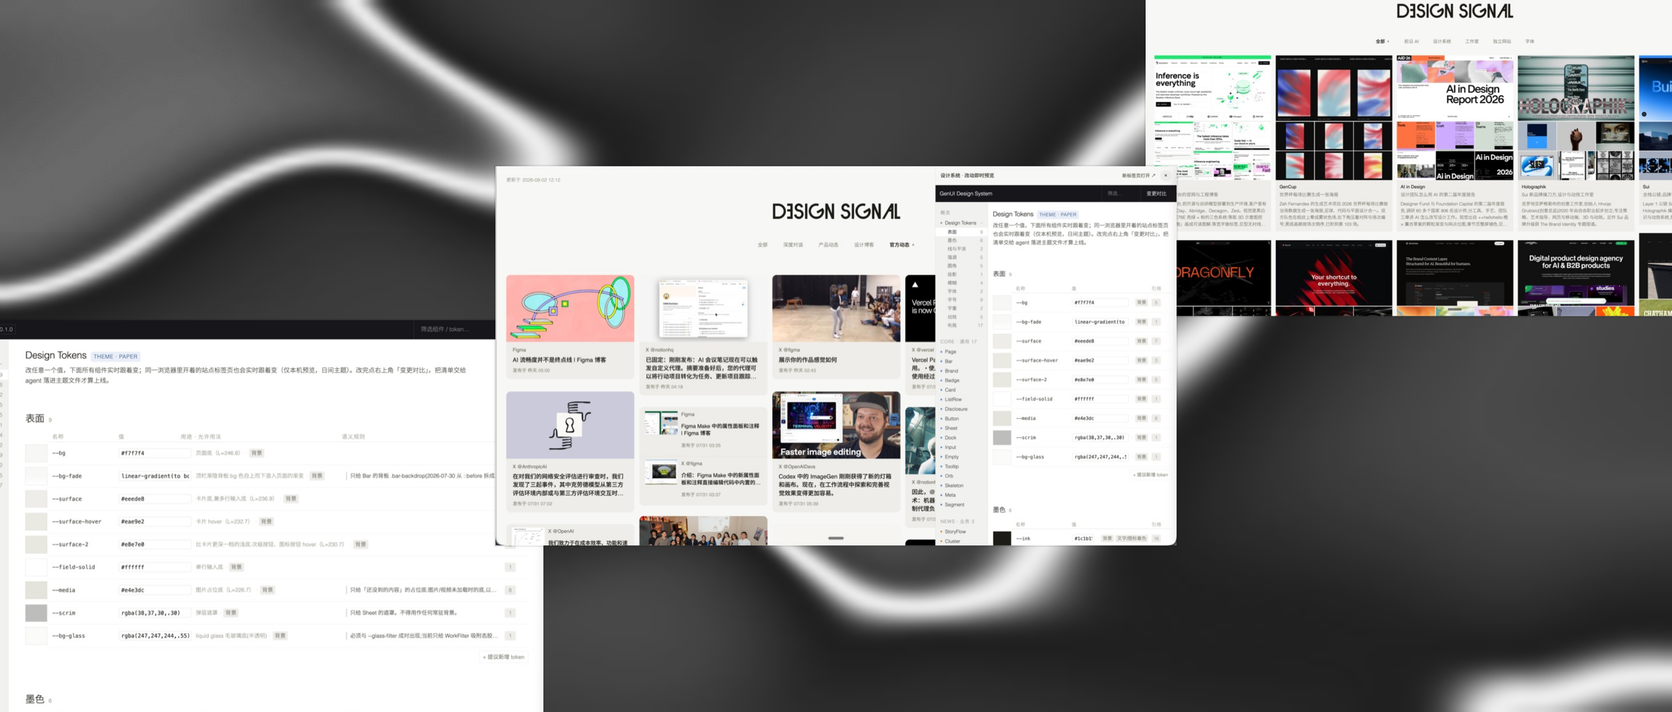
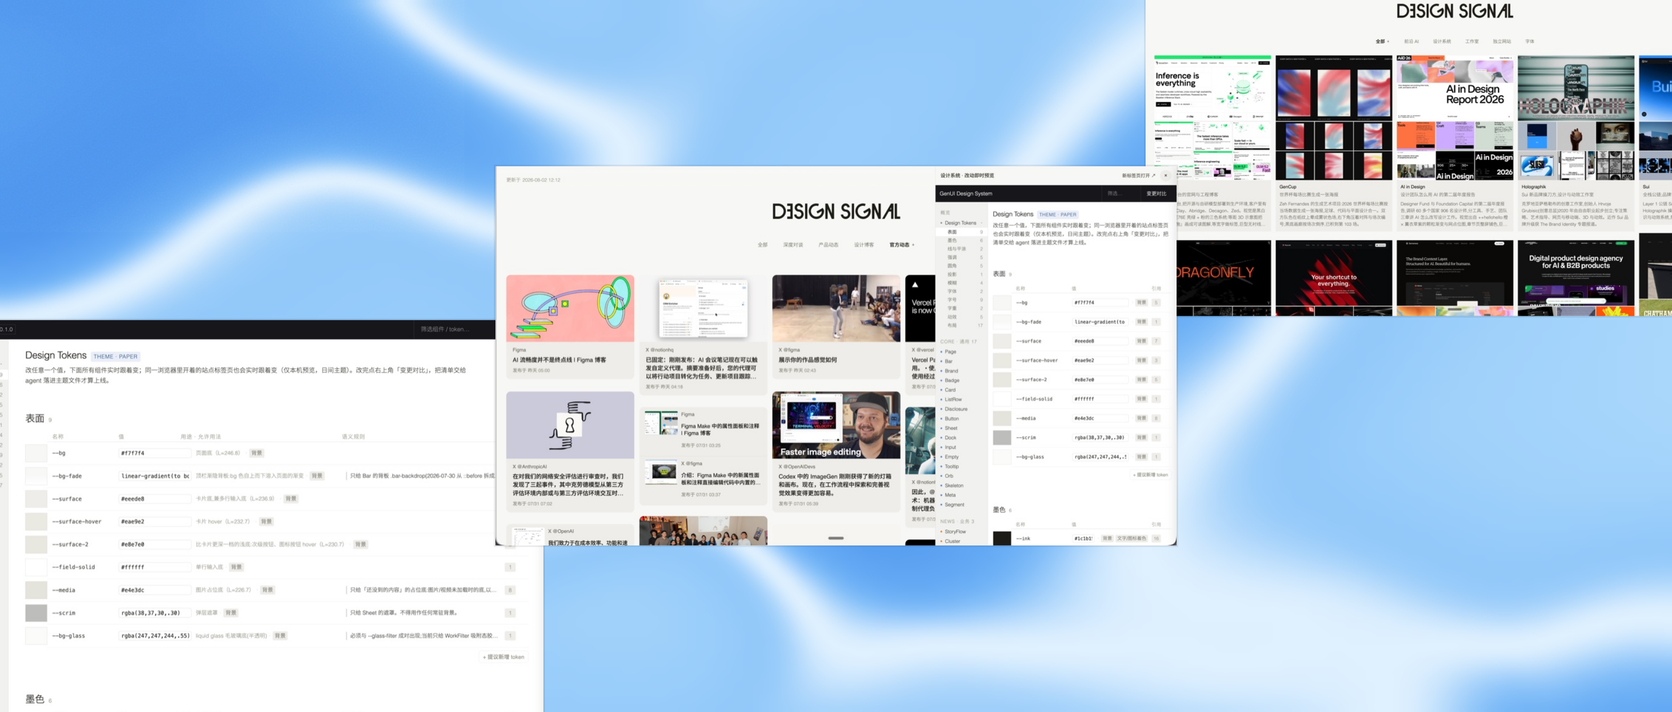
GenUI 封面换彩色：posters heatmap 封底用 PAL0 晴空湛蓝，主题色随封面换 #1d4ed8

diff --git a/docs/writing/article-genui-no-style-to-write.html b/docs/writing/article-genui-no-style-to-write.html
@@ -14,7 +14,7 @@
 <script src="writing.js?v=85"></script>
 </head>
 <!-- 复用首页 index.html 的胶囊顶栏:home-v2 控制顶栏内边距,design-page 提供胶囊样式 -->
-<body class="writing-page home-v2 design-page reading-page" data-accent="#1C1C1C" data-tint="gray">
+<body class="writing-page home-v2 design-page reading-page" data-accent="#1d4ed8" data-tint="blue">
 <!-- 顶部导航:与首页同一个组件(initSiteNav);data-base="../" 把站内链接/资源指回 docs 根目录。
          返回入口 = 左侧 VIBEUX 与高亮的 Writing 胶囊,均回到 index.html#writing -->
 <header class="header home-nav" data-active="writing" data-base="../" id="site-nav"></header>
@@ -58,7 +58,7 @@
 .article-byline { text-align: center; justify-content: center; }
 .article-body { color: #1a1a1a; line-height: 1.4; }
 .article-body p { font-size: var(--fs-body); font-weight: 300; margin: 40px 0; color: #1a1a1a; }
-.article-body strong { font-weight: 400; color: #1C1C1C; }
+.article-body strong { font-weight: 400; color: #1d4ed8; }
 .article-body .list-dot { font-weight: 600; margin-right: 4px; color: #1a1a1a; }
 .article-body .section-head { text-align: center; margin: 56px 0; }
 /* 图标居中：svg display:block + margin auto，别改回 vertical-align/line-height/padding（微信按基线对齐会贴底、border-box 下 padding 挤小图标）。跟 template.html 保持一致。详见记忆 wechat-icon-vertical-center。 */
@@ -70,7 +70,7 @@
 .article-body .img-ph { display: flex; align-items: center; justify-content: center; text-align: center; min-height: 160px; margin: 24px 0; padding: 28px 20px; border: 1px dashed #d6d6de; border-radius: 12px; background: repeating-linear-gradient(45deg, #fafafb, #fafafb 10px, #f3f3f6 10px, #f3f3f6 20px); }
 .article-body .img-ph .img-ph-cap { font-size: var(--fs-caption); color: #9a9aa6; line-height: 1.5; max-width: 80%; }
 .article-body .highlight { font-size: var(--fs-body); font-weight: 300; line-height: 1.4; color: #1a1a1a; margin: 40px 0; }
-.article-body .highlight strong { font-weight: 400; color: #1C1C1C; }
+.article-body .highlight strong { font-weight: 400; color: #1d4ed8; }
 
 /* outlined 图标动画 CSS（自动从 design-gallery 抽取，不要手改） */
 /* 时长/延迟变量（在 design-gallery 基础上整体提速 ~40%，文章里看着更精神） */
@@ -484,25 +484,25 @@
 <p>跳过 Figma，直接用 AI vibe coding 做设计，AI-Native 的实现路径到底能走到什么程度？这是我一直想弄清楚的一件事。正好我有一个人项目，一个 AI 设计内容收集网站，功能就一条线：信息源采集，更新推送到站点，定时任务隔几小时跑一趟（定时是为了省 token，不必每条都现采）。 就先拿这个项目试试水。主要还是因为第一版设计是临时让 AI 搭的 HTML，很简陋，也没有组织规划 token 框架，后来想改个样式都得现做现调，还是很麻烦。当时只是一个首页 Feed，正好又想新加个频道 Feed，所以干脆整体改版一下吧。</p>
 <p>为期一周的实践下来，我的成果有一套完整的、有明确风格的 WebUI 设计网站，还有背后的一整套 design system 协议框架，框架写在一份 design.md 里， 之后每次 Agent 在这份 MD 的基础上生成，生成质量可在 90% 以上，我后面也验证到了这点。并且，我把这套 design system 做成可视化看板嵌入站点，可以帮助我实时调整 token 参数、看效果，因为设计还是视觉化工作，仅看 MD 还是不太直观。</p>
 <p>![视频位置：成果录屏 signalwebdesignGenUI.mp4，发布时在编辑器手动插入]</p>
-<div class="section-head"><span class="icon-badge" style="background: transparent; border: 1.5px solid #E4E4E4; box-sizing: border-box;"><svg fill="none" height="32" viewBox="0 0 24 24" width="32" xmlns="http://www.w3.org/2000/svg"><path clip-rule="evenodd" d="M12 2.75C6.89137 2.75 2.75 6.89137 2.75 12C2.75 17.1086 6.89137 21.25 12 21.25C17.1086 21.25 21.25 17.1086 21.25 12C21.25 6.89137 17.1086 2.75 12 2.75ZM1.25 12C1.25 6.06294 6.06294 1.25 12 1.25C17.9371 1.25 22.75 6.06294 22.75 12C22.75 17.9371 17.9371 22.75 12 22.75C6.06294 22.75 1.25 17.9371 1.25 12ZM13.8489 9.18125C13.244 9.34164 12.4287 9.66626 11.2543 10.136C10.7129 10.3526 10.6121 10.4036 10.538 10.4686C10.5134 10.4902 10.4902 10.5134 10.4686 10.538C10.4036 10.6121 10.3526 10.7129 10.136 11.2543C9.66626 12.4287 9.34164 13.244 9.18125 13.8489C9.01425 14.4789 9.0961 14.6399 9.12239 14.6786C9.17553 14.7568 9.24298 14.8242 9.32118 14.8774C9.35986 14.9037 9.52089 14.9855 10.1508 14.8185C10.7558 14.6581 11.571 14.3335 12.7454 13.8637C13.2868 13.6472 13.3876 13.5961 13.4617 13.5311L13.9562 14.095L13.4617 13.5311C13.4864 13.5095 13.5095 13.4864 13.5311 13.4617L14.095 13.9562L13.5311 13.4617C13.5961 13.3876 13.6472 13.2868 13.8637 12.7454C14.3335 11.571 14.6581 10.7558 14.8185 10.1508C14.9855 9.52089 14.9037 9.35986 14.8774 9.32118C14.8242 9.24298 14.7568 9.17553 14.6786 9.12239C14.6399 9.0961 14.4789 9.01425 13.8489 9.18125ZM13.4646 7.73134C14.1544 7.54845 14.9007 7.45976 15.5217 7.88173C15.7563 8.04115 15.9586 8.2435 16.118 8.47811C16.54 9.09908 16.4513 9.84532 16.2684 10.5352C16.0817 11.2394 15.7215 12.14 15.2766 13.2522L15.2565 13.3025C15.2452 13.3307 15.234 13.3586 15.223 13.3864C15.0598 13.7958 14.9155 14.1582 14.6589 14.4507C14.5941 14.5246 14.5246 14.5941 14.4507 14.6589C14.1582 14.9155 13.7958 15.0598 13.3864 15.223C13.3587 15.234 13.3307 15.2452 13.3025 15.2564L13.024 14.5601L13.3025 15.2565L13.2522 15.2766C12.14 15.7215 11.2394 16.0817 10.5352 16.2684C9.84532 16.4513 9.09908 16.54 8.47811 16.118L8.89964 15.4977L8.47811 16.118C8.2435 15.9586 8.04115 15.7563 7.88173 15.5217C7.45976 14.9007 7.54845 14.1544 7.73134 13.4646C7.91804 12.7603 8.27829 11.8597 8.72318 10.7476L8.74331 10.6973C8.75458 10.6691 8.76572 10.6411 8.77677 10.6134C8.93992 10.2039 9.08429 9.8416 9.34085 9.54904C9.40562 9.47517 9.47517 9.40562 9.54904 9.34085C9.8416 9.08429 10.2039 8.93992 10.6134 8.77677C10.6411 8.76572 10.6691 8.75458 10.6973 8.74331L10.7476 8.72318C11.8598 8.27828 12.7603 7.91804 13.4646 7.73134Z" fill="#1C1C1C" fill-rule="evenodd"></path></svg></span><h2 style="color: #1C1C1C;">设计参与 Generative UI 的前期环节</h2></div>
+<div class="section-head"><span class="icon-badge" style="background: rgba(29, 78, 216, 0.1);"><svg fill="none" height="32" viewBox="0 0 24 24" width="32" xmlns="http://www.w3.org/2000/svg"><path clip-rule="evenodd" d="M12 2.75C6.89137 2.75 2.75 6.89137 2.75 12C2.75 17.1086 6.89137 21.25 12 21.25C17.1086 21.25 21.25 17.1086 21.25 12C21.25 6.89137 17.1086 2.75 12 2.75ZM1.25 12C1.25 6.06294 6.06294 1.25 12 1.25C17.9371 1.25 22.75 6.06294 22.75 12C22.75 17.9371 17.9371 22.75 12 22.75C6.06294 22.75 1.25 17.9371 1.25 12ZM13.8489 9.18125C13.244 9.34164 12.4287 9.66626 11.2543 10.136C10.7129 10.3526 10.6121 10.4036 10.538 10.4686C10.5134 10.4902 10.4902 10.5134 10.4686 10.538C10.4036 10.6121 10.3526 10.7129 10.136 11.2543C9.66626 12.4287 9.34164 13.244 9.18125 13.8489C9.01425 14.4789 9.0961 14.6399 9.12239 14.6786C9.17553 14.7568 9.24298 14.8242 9.32118 14.8774C9.35986 14.9037 9.52089 14.9855 10.1508 14.8185C10.7558 14.6581 11.571 14.3335 12.7454 13.8637C13.2868 13.6472 13.3876 13.5961 13.4617 13.5311L13.9562 14.095L13.4617 13.5311C13.4864 13.5095 13.5095 13.4864 13.5311 13.4617L14.095 13.9562L13.5311 13.4617C13.5961 13.3876 13.6472 13.2868 13.8637 12.7454C14.3335 11.571 14.6581 10.7558 14.8185 10.1508C14.9855 9.52089 14.9037 9.35986 14.8774 9.32118C14.8242 9.24298 14.7568 9.17553 14.6786 9.12239C14.6399 9.0961 14.4789 9.01425 13.8489 9.18125ZM13.4646 7.73134C14.1544 7.54845 14.9007 7.45976 15.5217 7.88173C15.7563 8.04115 15.9586 8.2435 16.118 8.47811C16.54 9.09908 16.4513 9.84532 16.2684 10.5352C16.0817 11.2394 15.7215 12.14 15.2766 13.2522L15.2565 13.3025C15.2452 13.3307 15.234 13.3586 15.223 13.3864C15.0598 13.7958 14.9155 14.1582 14.6589 14.4507C14.5941 14.5246 14.5246 14.5941 14.4507 14.6589C14.1582 14.9155 13.7958 15.0598 13.3864 15.223C13.3587 15.234 13.3307 15.2452 13.3025 15.2564L13.024 14.5601L13.3025 15.2565L13.2522 15.2766C12.14 15.7215 11.2394 16.0817 10.5352 16.2684C9.84532 16.4513 9.09908 16.54 8.47811 16.118L8.89964 15.4977L8.47811 16.118C8.2435 15.9586 8.04115 15.7563 7.88173 15.5217C7.45976 14.9007 7.54845 14.1544 7.73134 13.4646C7.91804 12.7603 8.27829 11.8597 8.72318 10.7476L8.74331 10.6973C8.75458 10.6691 8.76572 10.6411 8.77677 10.6134C8.93992 10.2039 9.08429 9.8416 9.34085 9.54904C9.40562 9.47517 9.47517 9.40562 9.54904 9.34085C9.8416 9.08429 10.2039 8.93992 10.6134 8.77677C10.6411 8.76572 10.6691 8.75458 10.6973 8.74331L10.7476 8.72318C11.8598 8.27828 12.7603 7.91804 13.4646 7.73134Z" fill="#1d4ed8" fill-rule="evenodd"></path></svg></span><h2 style="color: #1d4ed8;">设计参与 Generative UI 的前期环节</h2></div>
 <p>GenUI 其实是 Generative 生成和 UI 这两个步骤，一个是行为，一个是主体，核心问题是 UI 谁来定义、谁来 Gen、怎么写作？动手前，我连 generative UI 和 A2UI 差别在哪儿其实也不是特清楚，花了一晚上读完两条路线的代表文章。</p>
 <p>第一篇是 Vercel 2024 年 3 月那篇《Introducing AI SDK 3.0 with Generative UI》推出带生成式 UI 的 AI SDK 3.0，讲的是<strong>UI 从组件库里调用渲染</strong>：组件全部由开发者预先设计好、并且已设定好使用规范，<strong>模型只负责何时调工具、选什么组件、填什么参数</strong>，模型完全不写样式。</p>
 <p>第二篇是 Google Research 2025 年 11 月那篇《Generative UI: A rich, custom, visual interactive user experience for any prompt》生成式 UI：为任意 prompt 生成丰富、定制的可视交互体验，这篇讲的是<strong>UI 完全当场生成</strong>，底层没有组件箱，等于把设计决策也一并交给了模型，<strong>模型根据意图推理、当场设计整套 UI</strong>，Google AI Studio 和 Gemini 直接生成可交互 UI，背后走的就是这条路线；这套玩法还得在模型出稿和用户看到之间加一道自检工序，保证生成质量的下限，这种模型的自动发挥我觉得应该就不是我想要的做法。</p>
 <p>第三篇是 Google 2026 年 4 月那篇《A2UI v0.9: The New Standard for Portable, Framework-Agnostic Generative UI》A2UI v0.9：可移植、不绑框架的生成式 UI 新标准，讲的是<strong>把组件库路线协议化</strong>：agent 用声明式 JSON 写 UI，客户端只能从预批准的目录里渲染，其实它不算第三条路，还是预设组件库那类做法，只是把"哪些组件能用、怎么用"写成了跨平台的协议。</p>
 <img alt="三条路线的官方原文，我要的是最左那种「无样式可写」" src="assets/genui-no-style-to-write/01-三条路线官网原文.png"/><div class="img-caption">三条路线的官方原文，我要的是最左那种「无样式可写」</div>
 <p>OK，大概弄清楚了，大类就“预设组件库”和“当场生成”这两类。我做个人项目的话，还是想生成得可控一点，还告诉了 Claude 我的项目 context，Claude 建议我的方向是走预设组件库的 GenUI 这条路。说实话这时候还是半知半解，里面概念太多了，就当一次学习探索。</p>
-<div class="section-head"><span class="icon-badge" style="background: transparent; border: 1.5px solid #E4E4E4; box-sizing: border-box;"><svg fill="none" height="32" viewBox="0 0 24 24" width="32" xmlns="http://www.w3.org/2000/svg"><path d="M16.9585 9.75C16.5443 9.75 16.2085 9.41421 16.2085 9L16.2085 2C16.2085 1.58579 16.5443 1.25 16.9585 1.25C17.3727 1.25 17.7085 1.58579 17.7085 2L17.7085 9C17.7085 9.41421 17.3727 9.75 16.9585 9.75Z" fill="#1C1C1C"></path><path clip-rule="evenodd" d="M7 5.75C9.07107 5.75 10.75 7.42893 10.75 9.5C10.75 11.5711 9.07107 13.25 7 13.25C4.92893 13.25 3.25 11.5711 3.25 9.5C3.25 7.42893 4.92893 5.75 7 5.75ZM9.25 9.5C9.25 8.25736 8.24264 7.25 7 7.25C5.75736 7.25 4.75 8.25736 4.75 9.5C4.75 10.7426 5.75736 11.75 7 11.75C8.24264 11.75 9.25 10.7426 9.25 9.5Z" fill="#1C1C1C" fill-rule="evenodd"></path><path clip-rule="evenodd" d="M17 18.25C19.0711 18.25 20.75 16.5711 20.75 14.5C20.75 12.4289 19.0711 10.75 17 10.75C14.9289 10.75 13.25 12.4289 13.25 14.5C13.25 16.5711 14.9289 18.25 17 18.25ZM19.25 14.5C19.25 15.7426 18.2426 16.75 17 16.75C15.7574 16.75 14.75 15.7426 14.75 14.5C14.75 13.2574 15.7574 12.25 17 12.25C18.2426 12.25 19.25 13.2574 19.25 14.5Z" fill="#1C1C1C" fill-rule="evenodd"></path><path d="M6.20852 15C6.20852 14.5858 6.54431 14.25 6.95852 14.25C7.37273 14.25 7.70852 14.5858 7.70852 15V22C7.70852 22.4142 7.37273 22.75 6.95852 22.75C6.54431 22.75 6.20852 22.4142 6.20852 22V15Z" fill="#1C1C1C"></path><path d="M16.9585 22.75C16.5443 22.75 16.2085 22.4142 16.2085 22V20C16.2085 19.5858 16.5443 19.25 16.9585 19.25C17.3727 19.25 17.7085 19.5858 17.7085 20V22C17.7085 22.4142 17.3727 22.75 16.9585 22.75Z" fill="#1C1C1C"></path><path d="M6.20852 2C6.20852 1.58579 6.54431 1.25 6.95852 1.25C7.37273 1.25 7.70852 1.58579 7.70852 2V4C7.70852 4.41421 7.37273 4.75 6.95852 4.75C6.54431 4.75 6.20852 4.41421 6.20852 4V2Z" fill="#1C1C1C"></path></svg></span><h2 style="color: #1C1C1C;">设计系统的转变<br/>设计决策 token 化</h2></div>
+<div class="section-head"><span class="icon-badge" style="background: rgba(29, 78, 216, 0.1);"><svg fill="none" height="32" viewBox="0 0 24 24" width="32" xmlns="http://www.w3.org/2000/svg"><path d="M16.9585 9.75C16.5443 9.75 16.2085 9.41421 16.2085 9L16.2085 2C16.2085 1.58579 16.5443 1.25 16.9585 1.25C17.3727 1.25 17.7085 1.58579 17.7085 2L17.7085 9C17.7085 9.41421 17.3727 9.75 16.9585 9.75Z" fill="#1d4ed8"></path><path clip-rule="evenodd" d="M7 5.75C9.07107 5.75 10.75 7.42893 10.75 9.5C10.75 11.5711 9.07107 13.25 7 13.25C4.92893 13.25 3.25 11.5711 3.25 9.5C3.25 7.42893 4.92893 5.75 7 5.75ZM9.25 9.5C9.25 8.25736 8.24264 7.25 7 7.25C5.75736 7.25 4.75 8.25736 4.75 9.5C4.75 10.7426 5.75736 11.75 7 11.75C8.24264 11.75 9.25 10.7426 9.25 9.5Z" fill="#1d4ed8" fill-rule="evenodd"></path><path clip-rule="evenodd" d="M17 18.25C19.0711 18.25 20.75 16.5711 20.75 14.5C20.75 12.4289 19.0711 10.75 17 10.75C14.9289 10.75 13.25 12.4289 13.25 14.5C13.25 16.5711 14.9289 18.25 17 18.25ZM19.25 14.5C19.25 15.7426 18.2426 16.75 17 16.75C15.7574 16.75 14.75 15.7426 14.75 14.5C14.75 13.2574 15.7574 12.25 17 12.25C18.2426 12.25 19.25 13.2574 19.25 14.5Z" fill="#1d4ed8" fill-rule="evenodd"></path><path d="M6.20852 15C6.20852 14.5858 6.54431 14.25 6.95852 14.25C7.37273 14.25 7.70852 14.5858 7.70852 15V22C7.70852 22.4142 7.37273 22.75 6.95852 22.75C6.54431 22.75 6.20852 22.4142 6.20852 22V15Z" fill="#1d4ed8"></path><path d="M16.9585 22.75C16.5443 22.75 16.2085 22.4142 16.2085 22V20C16.2085 19.5858 16.5443 19.25 16.9585 19.25C17.3727 19.25 17.7085 19.5858 17.7085 20V22C17.7085 22.4142 17.3727 22.75 16.9585 22.75Z" fill="#1d4ed8"></path><path d="M6.20852 2C6.20852 1.58579 6.54431 1.25 6.95852 1.25C7.37273 1.25 7.70852 1.58579 7.70852 2V4C7.70852 4.41421 7.37273 4.75 6.95852 4.75C6.54431 4.75 6.20852 4.41421 6.20852 4V2Z" fill="#1d4ed8"></path></svg></span><h2 style="color: #1d4ed8;">设计系统的转变<br/>设计决策 token 化</h2></div>
 <p>最开始，我给 Claude Code 发的 prompt是："从现在这个信息网站沉淀 design system，未来我不管做什么，都有一套设计体系给 agent，新生成的 UI 必须遵循体系。"后面，Claude 直接帮我写了整个 design system 框架，逻辑是按照颗粒度从小到大分为分三层：最底层是 token，颜色、间距、圆角、字阶，包括缓动曲线和过渡时长这类动效参数；中间是契约，每个 token 声明自己允许出现在哪类 CSS 属性上，校验器逐条核对，改了值不同步目录会被当场拦下；最上面是组件目录，全站 23 个组件分 core、news、works 三层。最关键的是，渲染器要明确一条硬规矩：AI 要是用了目录里没有的组件，页面直接报错不渲染，而不是悄悄拿别的样式凑合顶上。</p>
 <img alt="这套协议框架落成六大类，从 token 到看板全走 design.md" src="assets/genui-no-style-to-write/02-design-md-六大类.png"/><div class="img-caption">这套协议框架落成六大类，从 token 到看板全走 design.md</div>
 <p>整个过程比较花时间的就是一一校验、对应 token 和样式，要把每个 token 和站点内的元素对应，所以我才内嵌了设计系统看板，一是可以实时改样式，二是还能确保 token 是真实有效的。第一个下午就创建了约 50 个提交、14 条裁决（裁决主要是旧版和新版对不上的需要删减），其实仍然是在<strong>维护设计规范，只是格式从 Figma 的画板转变成了 token MD文档和看板</strong>，差别在于真实环境的问题更加明显、逃不了。</p>
 <img alt="站点内嵌的 GenUI 看板实景" src="assets/genui-no-style-to-write/03-dock-看板并排调token.png"/><div class="img-caption">站点内嵌的 GenUI 看板实景</div>
 <p>设计 token 看板的代价是我现在维护着两套：可视化的看板和底层的 token 逻辑。有改动的话，是先改看板，再验证代码那边是不是对齐了，OK 了就 合并提交到 main。其中大部分精力花在看板管理上，自我校验对齐交给 Claude 来，从设计 → 开发 → 上线全流程还是 AI agent 执行、人工校验的角色定位。</p>
-<div class="section-head"><span class="icon-badge" style="background: transparent; border: 1.5px solid #E4E4E4; box-sizing: border-box;"><svg fill="none" height="32" viewBox="0 0 24 24" width="32" xmlns="http://www.w3.org/2000/svg"><path d="M5 9V16" stroke="#1C1C1C" stroke-linecap="round" stroke-linejoin="round" stroke-width="1.5"></path><path d="M5.25 8.5C7.04493 8.5 8.5 7.04493 8.5 5.25C8.5 3.45507 7.04493 2 5.25 2C3.45507 2 2 3.45507 2 5.25C2 7.04493 3.45507 8.5 5.25 8.5Z" stroke="#1C1C1C" stroke-linecap="round" stroke-linejoin="round" stroke-width="1.5"></path><path d="M5 22C6.65685 22 8 20.6569 8 19C8 17.3431 6.65685 16 5 16C3.34315 16 2 17.3431 2 19C2 20.6569 3.34315 22 5 22Z" stroke="#1C1C1C" stroke-linecap="round" stroke-linejoin="round" stroke-width="1.5"></path><path d="M19 22C20.6569 22 22 20.6569 22 19C22 17.3431 20.6569 16 19 16C17.3431 16 16 17.3431 16 19C16 20.6569 17.3431 22 19 22Z" stroke="#1C1C1C" stroke-linecap="round" stroke-linejoin="round" stroke-width="1.5"></path><path d="M5.13 9C5.58 10.75 7.18 12.05 9.07 12.04L12.5 12.03C15.12 12.02 17.35 13.7 18.17 16.04" stroke="#1C1C1C" stroke-linecap="round" stroke-linejoin="round" stroke-width="1.5"></path></svg></span><h2 style="color: #1C1C1C;">用搭好的设计系统<br/>生成新的一致性页面</h2></div>
+<div class="section-head"><span class="icon-badge" style="background: rgba(29, 78, 216, 0.1);"><svg fill="none" height="32" viewBox="0 0 24 24" width="32" xmlns="http://www.w3.org/2000/svg"><path d="M5 9V16" stroke="#1d4ed8" stroke-linecap="round" stroke-linejoin="round" stroke-width="1.5"></path><path d="M5.25 8.5C7.04493 8.5 8.5 7.04493 8.5 5.25C8.5 3.45507 7.04493 2 5.25 2C3.45507 2 2 3.45507 2 5.25C2 7.04493 3.45507 8.5 5.25 8.5Z" stroke="#1d4ed8" stroke-linecap="round" stroke-linejoin="round" stroke-width="1.5"></path><path d="M5 22C6.65685 22 8 20.6569 8 19C8 17.3431 6.65685 16 5 16C3.34315 16 2 17.3431 2 19C2 20.6569 3.34315 22 5 22Z" stroke="#1d4ed8" stroke-linecap="round" stroke-linejoin="round" stroke-width="1.5"></path><path d="M19 22C20.6569 22 22 20.6569 22 19C22 17.3431 20.6569 16 19 16C17.3431 16 16 17.3431 16 19C16 20.6569 17.3431 22 19 22Z" stroke="#1d4ed8" stroke-linecap="round" stroke-linejoin="round" stroke-width="1.5"></path><path d="M5.13 9C5.58 10.75 7.18 12.05 9.07 12.04L12.5 12.03C15.12 12.02 17.35 13.7 18.17 16.04" stroke="#1d4ed8" stroke-linecap="round" stroke-linejoin="round" stroke-width="1.5"></path></svg></span><h2 style="color: #1d4ed8;">用搭好的设计系统<br/>生成新的一致性页面</h2></div>
 <p>要检验 GenUI design system 是否可行、是否可靠，我觉得首要的、也是最底层的就是生成新页面是不是在一个设计体系下、细节处理的到不到位、遇到未设定的边界是否推理后也能生成高质量的结果。</p>
 <p>于是，我就开始新建一个 showcase 信息流，主要是收集设计工作室、个人设计师和 AI 公司的作品，做一个以图为主的 Showcase Feed。我发给 Claude 的还是一段很直白的需求："我现在想新增另一个频道，搜集 AI 设计、设计工作室、个人设计师的作品，大概先分为几类吧，Feed 卡片以大横图为主、展示官网首页首屏、下方展示 3*2 的代表作或官网截图，你觉得怎么弄，先规划。"我看了Claude 的文字版规划之后就开始执行了。</p>
 <p>这一次的生成质量就是我认为可以到 90% ，中间也有反复，基本围绕封面展示问题，我后面几轮简单对话，调整适配问题后，单个卡片图片展示规则 16:9 首屏大图加 3×2 六宫格的效果还是很可以的，我觉得最不可控的就是 layout，所以我就此有新增了 layout 的 token</p>
 <img alt="Showcase 这一轮走完的完整迭代路径" src="assets/genui-no-style-to-write/08-genui-迭代闭环.png"/><div class="img-caption">Showcase 这一轮走完的完整迭代路径</div>
-<div class="section-head"><span class="icon-badge" style="background: transparent; border: 1.5px solid #E4E4E4; box-sizing: border-box;"><svg fill="none" height="32" viewBox="0 0 24 24" width="32" xmlns="http://www.w3.org/2000/svg"><path clip-rule="evenodd" d="M4.95301 2.25C4.96862 2.25 4.98429 2.25 5.00001 2.25L19.047 2.25C19.7139 2.24997 20.2841 2.24994 20.7398 2.30742C21.2231 2.36839 21.6902 2.50529 22.0738 2.86524C22.4643 3.23154 22.6194 3.68856 22.6875 4.16405C22.7501 4.60084 22.7501 5.14397 22.75 5.76358L22.75 6.54012C22.75 7.02863 22.75 7.45095 22.7136 7.80311C22.6743 8.18206 22.5885 8.5376 22.3825 8.87893C22.1781 9.2177 21.9028 9.4636 21.5854 9.68404C21.2865 9.8917 20.9045 10.1067 20.4553 10.3596L17.5129 12.0159C16.8431 12.393 16.6099 12.5288 16.4542 12.6639C16.0966 12.9744 15.8918 13.3188 15.7956 13.7504C15.7545 13.9349 15.75 14.1672 15.75 14.8729L15.75 17.605C15.7501 18.5062 15.7501 19.2714 15.6574 19.8596C15.5587 20.4851 15.3298 21.0849 14.7298 21.4602C14.1434 21.827 13.4975 21.7933 12.8698 21.6442C12.2653 21.5007 11.5203 21.2094 10.6264 20.8599L10.5395 20.826C10.1208 20.6623 9.75411 20.519 9.46385 20.3691C9.1519 20.208 8.8622 20.0076 8.64055 19.6957C8.41641 19.3803 8.32655 19.042 8.28648 18.6963C8.24994 18.381 8.24997 18.0026 8.25 17.5806L8.25 14.8729C8.25 14.1672 8.24555 13.9349 8.20442 13.7504C8.1082 13.3188 7.90342 12.9744 7.54584 12.6639C7.39014 12.5288 7.15692 12.393 6.48714 12.0159L3.54471 10.3596C3.09549 10.1067 2.71353 9.8917 2.41458 9.68404C2.09724 9.4636 1.82191 9.2177 1.61747 8.87893C1.41148 8.5376 1.32571 8.18206 1.28645 7.80311C1.24996 7.45094 1.24998 7.02863 1.25 6.54012L1.25001 5.81466C1.25001 5.79757 1.25 5.78054 1.25 5.76357C1.24996 5.14396 1.24991 4.60084 1.31251 4.16405C1.38064 3.68856 1.53576 3.23154 1.92618 2.86524C2.30983 2.50529 2.77695 2.36839 3.26024 2.30742C3.71592 2.24994 4.28607 2.24997 4.95301 2.25ZM3.44796 3.79563C3.1143 3.83772 3.0082 3.90691 2.95251 3.95916C2.90359 4.00505 2.83904 4.08585 2.79734 4.37683C2.75181 4.69454 2.75001 5.12868 2.75001 5.81466V6.50448C2.75001 7.03869 2.75093 7.38278 2.77846 7.64854C2.8041 7.89605 2.84813 8.01507 2.90174 8.10391C2.9569 8.19532 3.0485 8.298 3.27034 8.45209C3.50406 8.61444 3.82336 8.79508 4.30993 9.06899L7.22296 10.7088C7.25024 10.7242 7.2771 10.7393 7.30357 10.7542C7.86227 11.0685 8.24278 11.2826 8.5292 11.5312C9.12056 12.0446 9.49997 12.6682 9.66847 13.424C9.75036 13.7913 9.75022 14.2031 9.75002 14.7845C9.75002 14.8135 9.75 14.843 9.75 14.8729V17.5424C9.75 18.0146 9.75117 18.305 9.77651 18.5236C9.79942 18.7213 9.83552 18.7878 9.8633 18.8269C9.89359 18.8695 9.95357 18.9338 10.152 19.0363C10.3644 19.146 10.6571 19.2614 11.1192 19.442C12.0802 19.8177 12.7266 20.0685 13.2164 20.1848C13.695 20.2985 13.8527 20.2396 13.9343 20.1885C14.0023 20.146 14.1073 20.0597 14.1757 19.626C14.2478 19.1686 14.25 18.5234 14.25 17.5424V14.8729C14.25 14.843 14.25 14.8135 14.25 14.7845C14.2498 14.2031 14.2496 13.7913 14.3315 13.424C14.5 12.6682 14.8794 12.0446 15.4708 11.5312C15.7572 11.2826 16.1377 11.0685 16.6964 10.7542C16.7229 10.7393 16.7498 10.7242 16.7771 10.7088L19.6901 9.06899C20.1767 8.79508 20.496 8.61444 20.7297 8.45209C20.9515 8.298 21.0431 8.19532 21.0983 8.10391C21.1519 8.01507 21.1959 7.89605 21.2215 7.64854C21.2491 7.38278 21.25 7.03869 21.25 6.50448V5.81466C21.25 5.12868 21.2482 4.69454 21.2027 4.37683C21.161 4.08585 21.0964 4.00505 21.0475 3.95916C20.9918 3.90691 20.8857 3.83772 20.5521 3.79563C20.2015 3.75141 19.727 3.75 19 3.75H5.00001C4.27297 3.75 3.79854 3.75141 3.44796 3.79563Z" fill="#1C1C1C" fill-rule="evenodd"></path></svg></span><h2 style="color: #1C1C1C;">限制 AI 自我决策<br/>生成 UI 更可控</h2></div>
+<div class="section-head"><span class="icon-badge" style="background: rgba(29, 78, 216, 0.1);"><svg fill="none" height="32" viewBox="0 0 24 24" width="32" xmlns="http://www.w3.org/2000/svg"><path clip-rule="evenodd" d="M4.95301 2.25C4.96862 2.25 4.98429 2.25 5.00001 2.25L19.047 2.25C19.7139 2.24997 20.2841 2.24994 20.7398 2.30742C21.2231 2.36839 21.6902 2.50529 22.0738 2.86524C22.4643 3.23154 22.6194 3.68856 22.6875 4.16405C22.7501 4.60084 22.7501 5.14397 22.75 5.76358L22.75 6.54012C22.75 7.02863 22.75 7.45095 22.7136 7.80311C22.6743 8.18206 22.5885 8.5376 22.3825 8.87893C22.1781 9.2177 21.9028 9.4636 21.5854 9.68404C21.2865 9.8917 20.9045 10.1067 20.4553 10.3596L17.5129 12.0159C16.8431 12.393 16.6099 12.5288 16.4542 12.6639C16.0966 12.9744 15.8918 13.3188 15.7956 13.7504C15.7545 13.9349 15.75 14.1672 15.75 14.8729L15.75 17.605C15.7501 18.5062 15.7501 19.2714 15.6574 19.8596C15.5587 20.4851 15.3298 21.0849 14.7298 21.4602C14.1434 21.827 13.4975 21.7933 12.8698 21.6442C12.2653 21.5007 11.5203 21.2094 10.6264 20.8599L10.5395 20.826C10.1208 20.6623 9.75411 20.519 9.46385 20.3691C9.1519 20.208 8.8622 20.0076 8.64055 19.6957C8.41641 19.3803 8.32655 19.042 8.28648 18.6963C8.24994 18.381 8.24997 18.0026 8.25 17.5806L8.25 14.8729C8.25 14.1672 8.24555 13.9349 8.20442 13.7504C8.1082 13.3188 7.90342 12.9744 7.54584 12.6639C7.39014 12.5288 7.15692 12.393 6.48714 12.0159L3.54471 10.3596C3.09549 10.1067 2.71353 9.8917 2.41458 9.68404C2.09724 9.4636 1.82191 9.2177 1.61747 8.87893C1.41148 8.5376 1.32571 8.18206 1.28645 7.80311C1.24996 7.45094 1.24998 7.02863 1.25 6.54012L1.25001 5.81466C1.25001 5.79757 1.25 5.78054 1.25 5.76357C1.24996 5.14396 1.24991 4.60084 1.31251 4.16405C1.38064 3.68856 1.53576 3.23154 1.92618 2.86524C2.30983 2.50529 2.77695 2.36839 3.26024 2.30742C3.71592 2.24994 4.28607 2.24997 4.95301 2.25ZM3.44796 3.79563C3.1143 3.83772 3.0082 3.90691 2.95251 3.95916C2.90359 4.00505 2.83904 4.08585 2.79734 4.37683C2.75181 4.69454 2.75001 5.12868 2.75001 5.81466V6.50448C2.75001 7.03869 2.75093 7.38278 2.77846 7.64854C2.8041 7.89605 2.84813 8.01507 2.90174 8.10391C2.9569 8.19532 3.0485 8.298 3.27034 8.45209C3.50406 8.61444 3.82336 8.79508 4.30993 9.06899L7.22296 10.7088C7.25024 10.7242 7.2771 10.7393 7.30357 10.7542C7.86227 11.0685 8.24278 11.2826 8.5292 11.5312C9.12056 12.0446 9.49997 12.6682 9.66847 13.424C9.75036 13.7913 9.75022 14.2031 9.75002 14.7845C9.75002 14.8135 9.75 14.843 9.75 14.8729V17.5424C9.75 18.0146 9.75117 18.305 9.77651 18.5236C9.79942 18.7213 9.83552 18.7878 9.8633 18.8269C9.89359 18.8695 9.95357 18.9338 10.152 19.0363C10.3644 19.146 10.6571 19.2614 11.1192 19.442C12.0802 19.8177 12.7266 20.0685 13.2164 20.1848C13.695 20.2985 13.8527 20.2396 13.9343 20.1885C14.0023 20.146 14.1073 20.0597 14.1757 19.626C14.2478 19.1686 14.25 18.5234 14.25 17.5424V14.8729C14.25 14.843 14.25 14.8135 14.25 14.7845C14.2498 14.2031 14.2496 13.7913 14.3315 13.424C14.5 12.6682 14.8794 12.0446 15.4708 11.5312C15.7572 11.2826 16.1377 11.0685 16.6964 10.7542C16.7229 10.7393 16.7498 10.7242 16.7771 10.7088L19.6901 9.06899C20.1767 8.79508 20.496 8.61444 20.7297 8.45209C20.9515 8.298 21.0431 8.19532 21.0983 8.10391C21.1519 8.01507 21.1959 7.89605 21.2215 7.64854C21.2491 7.38278 21.25 7.03869 21.25 6.50448V5.81466C21.25 5.12868 21.2482 4.69454 21.2027 4.37683C21.161 4.08585 21.0964 4.00505 21.0475 3.95916C20.9918 3.90691 20.8857 3.83772 20.5521 3.79563C20.2015 3.75141 19.727 3.75 19 3.75H5.00001C4.27297 3.75 3.79854 3.75141 3.44796 3.79563Z" fill="#1d4ed8" fill-rule="evenodd"></path></svg></span><h2 style="color: #1d4ed8;">限制 AI 自我决策<br/>生成 UI 更可控</h2></div>
 <p>当我迭代了多轮之后，有个问题频繁出现：只要没加硬约束，AI 就会自我决策生成一堆看似合理、实则不符合系统规则的设计，这也是很抓狂的一点。出现很多次，每次都要从底层排查、新增条件约束。比如我要给资讯卡片加 NEW tag ，我是这么给 Claude 说的：“为最新时间段推送的一波内容卡片加上 NEW tag”。我没有提任何设计样式，就为了测试这个 tag 最后生成是什么样儿，结果，tag 背景填充色直接用的是 --ink 这个接近于黑色的，因为这个色值 token 被允许用于背景，具体什么背景没描述，但奇怪地还有另一一个色值 token --ink-3 也可以作为背景，那为什么用了--ink呢？我猜测 AI 会自行判断使用那个引用次数最多的色值；所以在面对未设定的条件时，AI 有自己的推理过程，但那不是我的希望方向，所以只能人为的为 --ink-3 加上一句规则：作为 new 标记的背景底。</p>
 <img alt="看板里的墨色 token 表实景，--ink-3 那条规则是这次翻车后补的" src="assets/genui-no-style-to-write/06-NEWtag-墨色语义规则.png"/><div class="img-caption">看板里的墨色 token 表实景，--ink-3 那条规则是这次翻车后补的</div>
 <p>还有一个例子是我要为顶栏左侧的更新时间增加一个 hover 后出 Tooltip 的样式，生成的结果其实样式没问题，就是 tooltip 的 z-index 层级有问题，居然被文字 logo 遮盖了。这个我本以为是一个很底层通用的逻辑，浮层、气泡这类肯定是在最顶层，但实际不是这样的，实际是每个元素都需要约束。最后 Claude 自己发现 z-index 写到 70，照样压不过 60 的 logo 字标，是因为历史问题，很多元素的层级和尺寸都是临时写的，没有逻辑性，比如顶栏自成一个层叠上下文，Tooltip 在它里面 z-index 写再高也只在顶栏内部比大小，压不住外面那个 60；骨架卡当时写了个 80px 的定高，窗口一换宽度就出问题。所以，很多暗藏的逻辑必须得写下来，不然就会出现各种各样的问题。</p>
@@ -510,7 +510,7 @@
 <p>Claude 已经拉了一份全局禁令清单，但是随着我的人工决策的判断，其实大部分契约都要补充和修改。比如裸色值、裸投影、新字号档位、目录之外的类名，全都删除、不保留。对于新增组件的准入规则，还得我作为设计师人工审核：17 个底层组件的禁用条款，我要逐条检查之后才采纳成定稿的；新组件，也得先写全适用场景和禁用条款，不然渲染器直接舍弃。</p>
 <img alt="design.md 第 4 节，就是 agent 的全部行为边界" src="assets/genui-no-style-to-write/05-硬约束-md.png"/><div class="img-caption">design.md 第 4 节，就是 agent 的全部行为边界</div>
 <p>到这一步，我觉得设计系统是时候从静态画板变成动态 token 化了。以前在 Figam 里维护设计系统，其实还是属于设计师的手搓范围，最后实际怎么样，还得结合真实上线情况再更新，但往往是更新落后的、对不上的，会引起非常多的一致性问题；而现在 Generative UI 的设计系统的优势在于更加及时，你做的每个设计样式、写的规范、实际怎么用，直接修改了就等于线上版本了，而且完全实打实的可以看到，不用去猜、不要去问，可以很有依据的做未来设计决策。对于 builder 来说，不会只考虑一个静态的规则，更希望的是做一个动态的、智能的生态系统。</p>
-<div class="section-head"><span class="icon-badge" style="background: transparent; border: 1.5px solid #E4E4E4; box-sizing: border-box;"><svg fill="none" height="32" viewBox="0 0 24 24" width="32" xmlns="http://www.w3.org/2000/svg"><path d="M9.34458 8.23084C9.03703 7.92329 8.53839 7.92329 8.23084 8.23084C7.92329 8.53839 7.92329 9.03703 8.23084 9.34458C8.53839 9.65213 9.03703 9.65213 9.34458 9.34458C9.65213 9.03703 9.65213 8.53839 9.34458 8.23084Z" fill="#1C1C1C"></path><path d="M12.1289 9.15895C11.8214 8.8514 11.3227 8.8514 11.0152 9.15895C10.7076 9.4665 10.7076 9.96514 11.0152 10.2727C11.3227 10.5802 11.8214 10.5802 12.1289 10.2727C12.4365 9.96514 12.4365 9.4665 12.1289 9.15895Z" fill="#1C1C1C"></path><path d="M15.8414 12.8714C16.1489 13.179 16.1489 13.6776 15.8414 13.9852C15.5338 14.2927 15.0352 14.2927 14.7277 13.9852C14.4201 13.6776 14.4201 13.179 14.7277 12.8714C15.0352 12.5639 15.5338 12.5639 15.8414 12.8714Z" fill="#1C1C1C"></path><path d="M16.7695 16.7695C17.0771 16.462 17.0771 15.9633 16.7695 15.6558C16.462 15.3482 15.9633 15.3482 15.6558 15.6558C15.3482 15.9633 15.3482 16.462 15.6558 16.7695C15.9633 17.0771 16.462 17.0771 16.7695 16.7695Z" fill="#1C1C1C"></path><path d="M13.057 13.057C13.3646 12.7495 13.3646 12.2509 13.057 11.9433C12.7495 11.6358 12.2509 11.6358 11.9433 11.9433C11.6358 12.2509 11.6358 12.7495 11.9433 13.057C12.2509 13.3646 12.7495 13.3646 13.057 13.057Z" fill="#1C1C1C"></path><path d="M13.9852 14.7277C14.2927 15.0352 14.2927 15.5338 13.9852 15.8414C13.6776 16.1489 13.179 16.1489 12.8714 15.8414C12.5639 15.5338 12.5639 15.0352 12.8714 14.7277C13.179 14.4201 13.6776 14.4201 13.9852 14.7277Z" fill="#1C1C1C"></path><path d="M9.15895 11.0152C9.4665 10.7076 9.96514 10.7076 10.2727 11.0152C10.5802 11.3227 10.5802 11.8214 10.2727 12.1289C9.96514 12.4365 9.4665 12.4365 9.15895 12.1289C8.8514 11.8214 8.8514 11.3227 9.15895 11.0152Z" fill="#1C1C1C"></path><path clip-rule="evenodd" d="M14.3986 2.68287C16.3091 0.772375 19.4066 0.772376 21.3171 2.68287C23.2276 4.59337 23.2276 7.6909 21.3171 9.6014L18.9185 12L21.3171 14.3986C23.2276 16.3091 23.2276 19.4066 21.3171 21.3171C19.4066 23.2276 16.3091 23.2276 14.3986 21.3171L12 18.9185L9.6014 21.3171C7.6909 23.2276 4.59337 23.2276 2.68287 21.3171C0.772376 19.4066 0.772376 16.3091 2.68287 14.3986L5.08148 12L2.68287 9.6014C0.772376 7.6909 0.772375 4.59337 2.68287 2.68287C4.59337 0.772376 7.6909 0.772376 9.6014 2.68287L12 5.08148L14.3986 2.68287ZM20.2565 15.4593C21.5812 16.784 21.5812 18.9318 20.2565 20.2565C18.9318 21.5812 16.784 21.5812 15.4593 20.2565L3.74353 8.54074C2.41882 7.21603 2.41882 5.06824 3.74353 3.74353C5.06824 2.41882 7.21603 2.41882 8.54074 3.74353L20.2565 15.4593ZM20.2565 8.54074L17.8579 10.9393L13.0607 6.14214L15.4593 3.74353C16.784 2.41882 18.9318 2.41882 20.2565 3.74353C21.5812 5.06825 21.5812 7.21603 20.2565 8.54074ZM3.74353 15.4593L6.14214 13.0607L10.9393 17.8579L8.54074 20.2565C7.21603 21.5812 5.06825 21.5812 3.74353 20.2565C2.41882 18.9318 2.41882 16.784 3.74353 15.4593Z" fill="#1C1C1C" fill-rule="evenodd"></path></svg></span><h2 style="color: #1C1C1C;">新问题不断出现<br/>及时加入补救规则</h2></div>
+<div class="section-head"><span class="icon-badge" style="background: rgba(29, 78, 216, 0.1);"><svg fill="none" height="32" viewBox="0 0 24 24" width="32" xmlns="http://www.w3.org/2000/svg"><path d="M9.34458 8.23084C9.03703 7.92329 8.53839 7.92329 8.23084 8.23084C7.92329 8.53839 7.92329 9.03703 8.23084 9.34458C8.53839 9.65213 9.03703 9.65213 9.34458 9.34458C9.65213 9.03703 9.65213 8.53839 9.34458 8.23084Z" fill="#1d4ed8"></path><path d="M12.1289 9.15895C11.8214 8.8514 11.3227 8.8514 11.0152 9.15895C10.7076 9.4665 10.7076 9.96514 11.0152 10.2727C11.3227 10.5802 11.8214 10.5802 12.1289 10.2727C12.4365 9.96514 12.4365 9.4665 12.1289 9.15895Z" fill="#1d4ed8"></path><path d="M15.8414 12.8714C16.1489 13.179 16.1489 13.6776 15.8414 13.9852C15.5338 14.2927 15.0352 14.2927 14.7277 13.9852C14.4201 13.6776 14.4201 13.179 14.7277 12.8714C15.0352 12.5639 15.5338 12.5639 15.8414 12.8714Z" fill="#1d4ed8"></path><path d="M16.7695 16.7695C17.0771 16.462 17.0771 15.9633 16.7695 15.6558C16.462 15.3482 15.9633 15.3482 15.6558 15.6558C15.3482 15.9633 15.3482 16.462 15.6558 16.7695C15.9633 17.0771 16.462 17.0771 16.7695 16.7695Z" fill="#1d4ed8"></path><path d="M13.057 13.057C13.3646 12.7495 13.3646 12.2509 13.057 11.9433C12.7495 11.6358 12.2509 11.6358 11.9433 11.9433C11.6358 12.2509 11.6358 12.7495 11.9433 13.057C12.2509 13.3646 12.7495 13.3646 13.057 13.057Z" fill="#1d4ed8"></path><path d="M13.9852 14.7277C14.2927 15.0352 14.2927 15.5338 13.9852 15.8414C13.6776 16.1489 13.179 16.1489 12.8714 15.8414C12.5639 15.5338 12.5639 15.0352 12.8714 14.7277C13.179 14.4201 13.6776 14.4201 13.9852 14.7277Z" fill="#1d4ed8"></path><path d="M9.15895 11.0152C9.4665 10.7076 9.96514 10.7076 10.2727 11.0152C10.5802 11.3227 10.5802 11.8214 10.2727 12.1289C9.96514 12.4365 9.4665 12.4365 9.15895 12.1289C8.8514 11.8214 8.8514 11.3227 9.15895 11.0152Z" fill="#1d4ed8"></path><path clip-rule="evenodd" d="M14.3986 2.68287C16.3091 0.772375 19.4066 0.772376 21.3171 2.68287C23.2276 4.59337 23.2276 7.6909 21.3171 9.6014L18.9185 12L21.3171 14.3986C23.2276 16.3091 23.2276 19.4066 21.3171 21.3171C19.4066 23.2276 16.3091 23.2276 14.3986 21.3171L12 18.9185L9.6014 21.3171C7.6909 23.2276 4.59337 23.2276 2.68287 21.3171C0.772376 19.4066 0.772376 16.3091 2.68287 14.3986L5.08148 12L2.68287 9.6014C0.772376 7.6909 0.772375 4.59337 2.68287 2.68287C4.59337 0.772376 7.6909 0.772376 9.6014 2.68287L12 5.08148L14.3986 2.68287ZM20.2565 15.4593C21.5812 16.784 21.5812 18.9318 20.2565 20.2565C18.9318 21.5812 16.784 21.5812 15.4593 20.2565L3.74353 8.54074C2.41882 7.21603 2.41882 5.06824 3.74353 3.74353C5.06824 2.41882 7.21603 2.41882 8.54074 3.74353L20.2565 15.4593ZM20.2565 8.54074L17.8579 10.9393L13.0607 6.14214L15.4593 3.74353C16.784 2.41882 18.9318 2.41882 20.2565 3.74353C21.5812 5.06825 21.5812 7.21603 20.2565 8.54074ZM3.74353 15.4593L6.14214 13.0607L10.9393 17.8579L8.54074 20.2565C7.21603 21.5812 5.06825 21.5812 3.74353 20.2565C2.41882 18.9318 2.41882 16.784 3.74353 15.4593Z" fill="#1d4ed8" fill-rule="evenodd"></path></svg></span><h2 style="color: #1d4ed8;">新问题不断出现<br/>及时加入补救规则</h2></div>
 <p>作为设计师的工作范畴，以前更多关注在于设计与体验的把控；现在多了与 AI Agent 的协作，以为 Agent 会把逻辑问题全都补齐、处理得很好，其实并不会，反而会留坑。</p>
 <p>尽管我这个项目只是推送内容 Feed，但是我遇到过很多次测试环境里全是正常的，上线后暴露了很多没想过的大大小小的边际情况。比如线上打开内嵌看板，要过 Access 网关拉一整套 HTML、CSS、catalog、字体，冷启有 3～5秒加载，本地测试根本看不出来；我问了句"线上还得等加载吗？必须要加载的话就用骨架图"，Claude 就按站点自己的骨架规则补了。值得一提的是骨架是与看板结构样式同类的的骨架，这个骨架样式我之前没预设加进设计系统，只是加了一句“骨架要与内容结构一致的样式”，所以这里是 Agent 自主生成的骨架哲学。</p>
 <img alt="一句话提需求，Claude 按站点的骨架规则补上" src="assets/genui-no-style-to-write/09-dock骨架对话.png"/><div class="img-caption">一句话提需求，Claude 按站点的骨架规则补上</div>

diff --git a/docs/writing/assets/genui-no-style-to-write/cover3.html b/docs/writing/assets/genui-no-style-to-write/cover3.html
@@ -1,6 +1,6 @@
 <!-- posters 封面（20260801 GenUI建站实录）：封底 = 实验七热成像渐变机制原样，调色板换黑白灰度、
      hot 白辉光 iso 线即线条纹理；排版 = 3-posters/template.html 定稿三图对角。
-     参数：seed=733011842 t0=95.2 warp=1.72 dens=0.74 iso=0.52 gain=1.15 -->
+     参数：seed=733011842 t0=95.2 warp=1.72 dens=0.74 iso=0.45 gain=1.0 -->
 <!DOCTYPE html>
 <html><head><meta charset="utf-8"><meta name="viewport" content="width=device-width,initial-scale=1"><style>
 *{margin:0;padding:0;box-sizing:border-box;}
@@ -39,7 +39,7 @@ fit();addEventListener('resize',fit);})();
   var field=document.createElement('canvas');field.width=FW;field.height=FH;
   var fctx=field.getContext('2d');
   var img=fctx.createImageData(FW,FH);
-  var hp={"stops":["#161616","#4a4a4a","#111111","#8a8a8a","#1e1e1e"],"hot":"#eeeeee","iso":0.52,"width":0.035,"glow":1.0,"warp":1.72,"dens":0.74,"gain":1.15,"speed":2.8,"seed":733011842,"t0":95.2};
+  var hp={"stops":["#ddf0fe", "#a8d6fb", "#6fb4f7", "#3b82e8", "#1d4ed8"],"hot":"#eaf6ff","iso":0.45,"width":0.05,"glow":0.9,"warp":1.72,"dens":0.74,"gain":1.0,"speed":2.8,"seed":733011842,"t0":95.2};
   var stops=hp.stops,hotc=hp.hot;
   var iso=hp.iso,iw=hp.width,glow=hp.glow,warp=hp.warp,dens=hp.dens,gain=hp.gain,speed=hp.speed,hseed=hp.seed,T0=hp.t0;
   var hex=function(h){return [parseInt(h.slice(1,3),16),parseInt(h.slice(3,5),16),parseInt(h.slice(5,7),16)];};

diff --git a/docs/writing/writing.js b/docs/writing/writing.js
@@ -423,7 +423,7 @@ function initTOC() {
    ======================================== */
 /* READER_ARTICLES:AUTO —— 发布时 render.py 从 articles.json 自动重生成此数组,勿手改。 */
 let READER_ARTICLES = [
-    { file: "article-genui-no-style-to-write.html", cat: "ui", title: "生成式 UI 的第一步是让 AI 无样式可写", date: "2026-08-02", cover: "assets/genui-no-style-to-write/cover3.png", accent: "#1C1C1C" },
+    { file: "article-genui-no-style-to-write.html", cat: "ui", title: "生成式 UI 的第一步是让 AI 无样式可写", date: "2026-08-02", cover: "assets/genui-no-style-to-write/cover3.png", accent: "#1d4ed8" },
     { file: "article-claude-code-verification-loops.html", cat: "product", title: "验证循环，把手动检查写进 Skill", date: "2026-07-23", cover: "assets/claude-code-verification-loops/cover4.png", accent: "#6A823F" },
     { file: "article-figma-make-designer-pr.html", cat: "product", title: "AI native 设计师的交付物，不只设计稿，还有 GitHub PR", date: "2026-07-19", cover: "assets/figma-make-designer-pr/cover4.png", accent: "#2F3336" },
     { file: "article-remove-ai-taste-in-design.html", cat: "ui", title: "看不出 AI 味的 AI 设计方式", date: "2026-07-16", cover: "assets/remove-ai-taste-in-design/cover4.png", accent: "#5A6CD8" },
